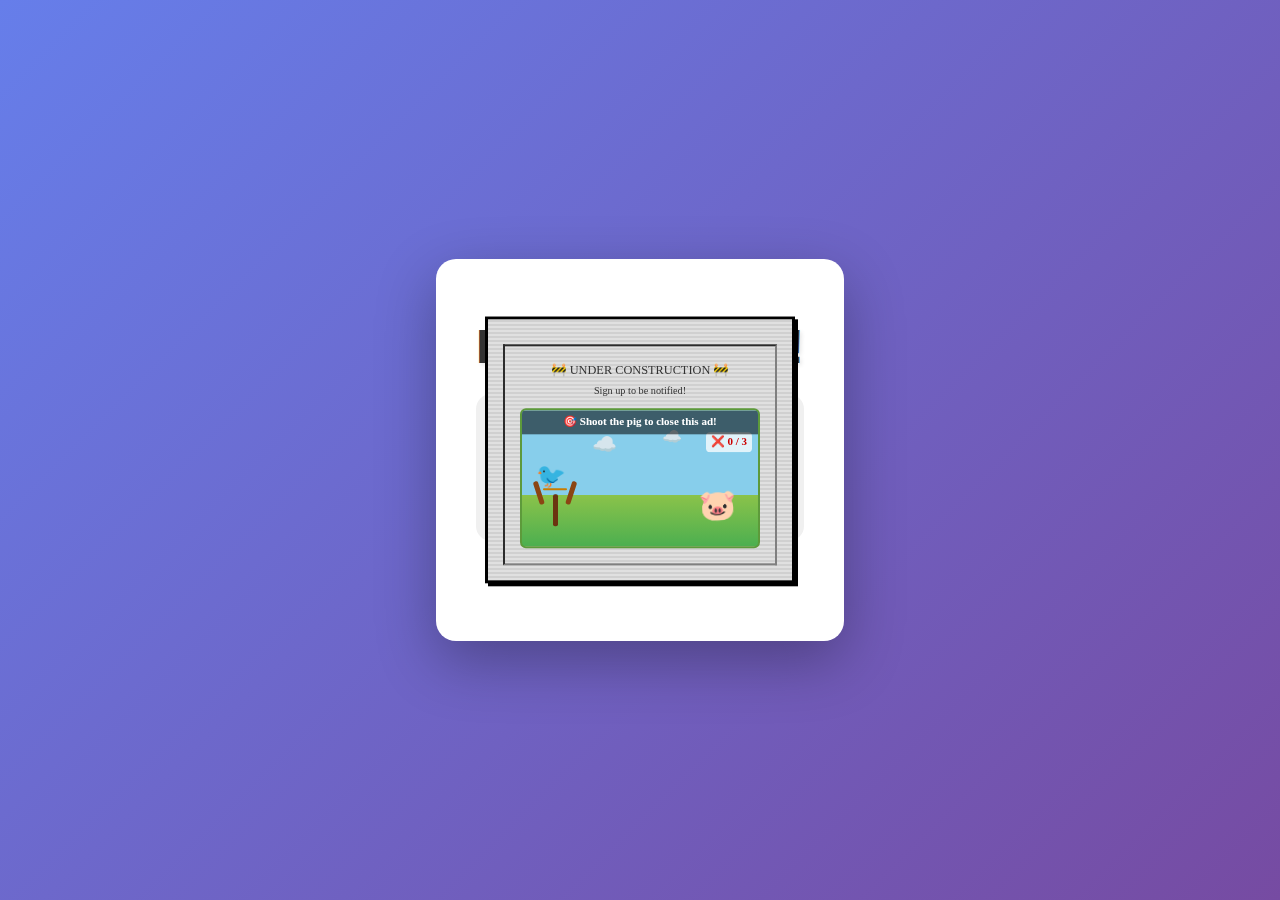
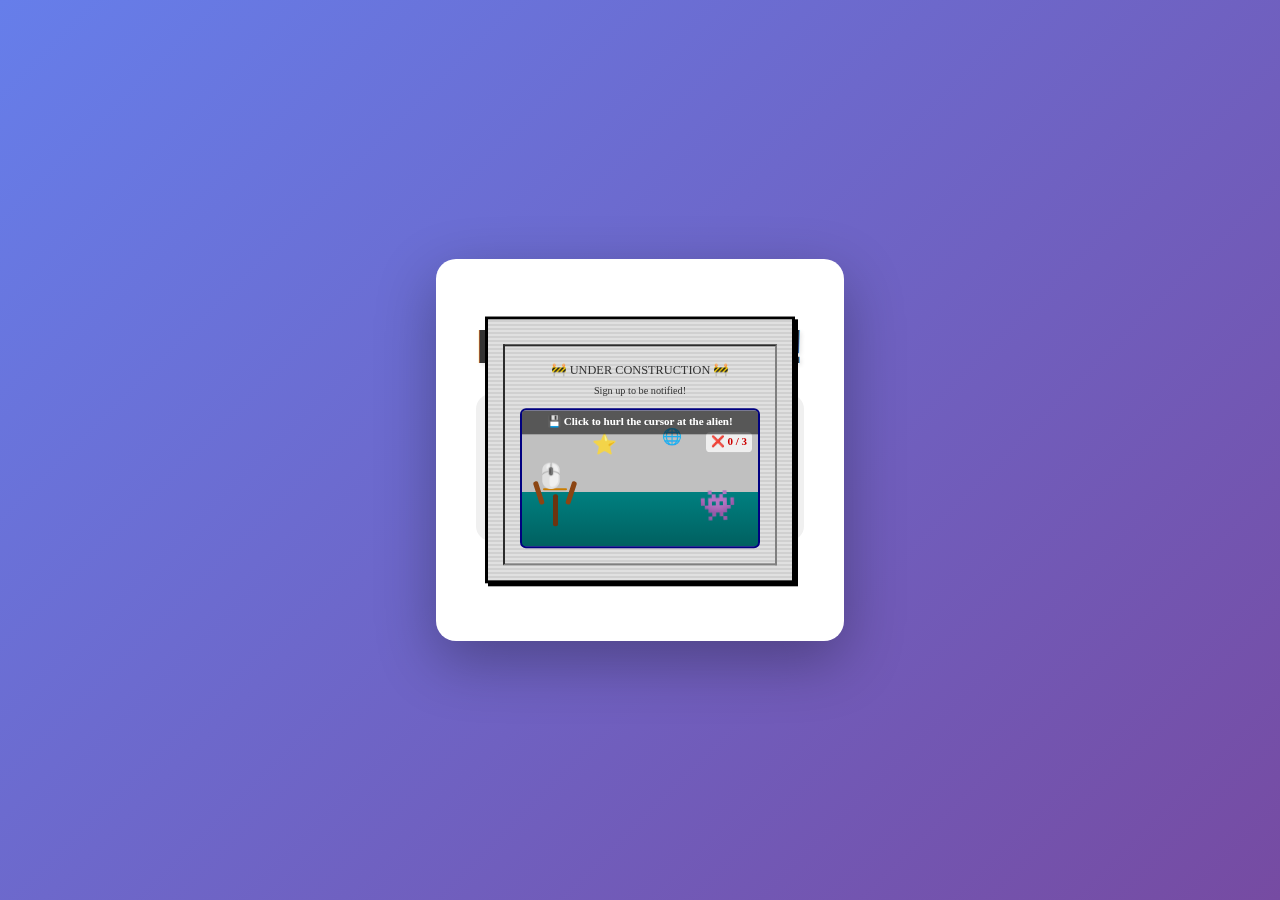
Add era-specific flavor themes to angry bird ad mechanic
Agent-Logs-Url: https://github.com/calegeffre/InfiniteAds/sessions/9aaf6c54-c81d-4cda-a1d8-99a11e98913e

Changed region(s): [[0.4062, 0.4356, 0.5938, 0.6222]]

diff --git a/index.html b/index.html
@@ -897,6 +897,9 @@
             transform: translate(-50%, -50%);
             line-height: 1;
         }
+        .ab-miss-counter.ab-miss-warning {
+            color: #ff0000;
+        }
         @keyframes ab-pig-wobble {
             0%,100% { transform: rotate(-4deg); }
             50%      { transform: rotate(4deg); }
@@ -2893,10 +2896,126 @@
             return '';
         }
 
+        // ── Per-era flavor config for the Angry Bird mechanic ─────────────
+        const AB_ERA_THEMES = {
+            // ── Millennial / classic (default bird & pig) ──────────────────
+            flash: {
+                projectile: '🐦', projectileStyle: null,
+                target: '🐷',
+                instruction: '🎯 Shoot the pig to close this ad!',
+                hitMsg:  '🎉 Direct hit! Ad destroyed!',
+                winMsg:  '🐷 The pig wins! Game over!',
+                bg: 'linear-gradient(to bottom,#87CEEB 0%,#87CEEB 62%,#8BC34A 62%,#4CAF50 100%)',
+                borderColor: '#5d9a3b',
+                decor: ['☁', '☁']
+            },
+            web20: {
+                projectile: '🐦', projectileStyle: null,
+                target: '🐷',
+                instruction: '🎯 Shoot the pig to close this ad!',
+                hitMsg:  '🎉 Direct hit! Ad destroyed!',
+                winMsg:  '🐷 The pig wins! Game over!',
+                bg: 'linear-gradient(to bottom,#87CEEB 0%,#87CEEB 62%,#8BC34A 62%,#4CAF50 100%)',
+                borderColor: '#5d9a3b',
+                decor: ['☁', '☁']
+            },
+            mobile: {
+                projectile: '🐦', projectileStyle: null,
+                target: '🐷',
+                instruction: '🎯 Shoot the pig to close this ad!',
+                hitMsg:  '🎉 Direct hit! Ad destroyed!',
+                winMsg:  '🐷 The pig wins! Game over!',
+                bg: 'linear-gradient(to bottom,#87CEEB 0%,#87CEEB 62%,#8BC34A 62%,#4CAF50 100%)',
+                borderColor: '#5d9a3b',
+                decor: ['☁', '☁']
+            },
+            // ── Early Web (90s) ───────────────────────────────────────────
+            earlyWeb: {
+                projectile: '🖱', projectileStyle: null,
+                target: '👾',
+                instruction: '💾 Click to hurl the cursor at the alien!',
+                hitMsg:  '💾 Webmaster wins! Alien defeated!',
+                winMsg:  '👾 The alien escapes! Game over!',
+                bg: 'linear-gradient(to bottom,#c0c0c0 0%,#c0c0c0 60%,#008080 60%,#006060 100%)',
+                borderColor: '#000080',
+                decor: ['⭐', '🌐']
+            },
+            // ── MySpace / AIM ─────────────────────────────────────────────
+            myspace: {
+                projectile: '💜', projectileStyle: null,
+                target: '🧑',
+                instruction: '~*~ Click 2 poke Tom with a comment! ~*~',
+                hitMsg:  '~*~ Tom has been POKED!! ur a 10/10 ~*~',
+                winMsg:  '😤 Tom blocked u! Game over!',
+                bg: 'linear-gradient(to bottom,#1a0a2e 0%,#1a0a2e 60%,#4a0080 60%,#2d006b 100%)',
+                borderColor: '#ff00ff',
+                decor: ['✨', '🖤']
+            },
+            // ── AOL / Dial-up ─────────────────────────────────────────────
+            aol: {
+                projectile: '💿', projectileStyle: null,
+                target: '☎',
+                instruction: '📞 Hurl the AOL CD at the phone!',
+                hitMsg:  '🔌 Line disconnected! Ad closed!',
+                winMsg:  '☎ Mom picked up the phone! Game over!',
+                bg: 'linear-gradient(to bottom,#a8a8a8 0%,#a8a8a8 60%,#606060 60%,#404040 100%)',
+                borderColor: '#808080',
+                decor: ['📬', '💿']
+            },
+            // ── 90s Windows (BSOD) ───────────────────────────────────────
+            win95: {
+                projectile: '📎', projectileStyle: null,
+                target: '💻',
+                instruction: '📎 Launch Clippy at the Blue Screen!',
+                hitMsg:  '📎 Clippy fixed it! (for once)',
+                winMsg:  '☠ Fatal exception 0E! Game over!',
+                bg: 'linear-gradient(to bottom,#0000aa 0%,#0000aa 100%)',
+                borderColor: '#ffffff',
+                decor: ['⚠', '💾']
+            },
+            // ── Windows XP ────────────────────────────────────────────────
+            winxp: {
+                projectile: '📎', projectileStyle: null,
+                target: '💻',
+                instruction: '📎 Send Clippy at the Blue Screen!',
+                hitMsg:  '🪟 Clippy to the rescue!',
+                winMsg:  '💥 svchost.exe has stopped! Game over!',
+                bg: 'linear-gradient(to bottom,#3a7ec8 0%,#3a7ec8 60%,#1b7a1f 60%,#2e9932 100%)',
+                borderColor: '#0a246a',
+                decor: ['🌅', '☁']
+            },
+            // ── Gen-Z ─────────────────────────────────────────────────────
+            genz: {
+                projectile: 'BRUH',
+                projectileStyle: 'font-weight:900;font-size:13px;color:#ff2d7e;letter-spacing:-1px;',
+                target: '🧑',
+                instruction: '💀 Click to yeet BRUH at that person!',
+                hitMsg:  '💀 Direct ratio! No cap fr fr!',
+                winMsg:  '🤡 Clown behavior detected! Game over!',
+                bg: 'linear-gradient(to bottom,#ff6ab0 0%,#ff6ab0 55%,#a855f7 55%,#7c3aed 100%)',
+                borderColor: '#333333',
+                decor: ['✨', '💅']
+            },
+            // ── AI Era ────────────────────────────────────────────────────
+            ai: {
+                projectile: '💬', projectileStyle: null,
+                target: '🤖',
+                instruction: '🤖 Click to prompt the AI into closing!',
+                hitMsg:  '✅ Prompt accepted! Ad context cleared!',
+                winMsg:  '🤖 AI refuses to comply! Game over!',
+                bg: 'linear-gradient(to bottom,#0a0e27 0%,#0a0e27 65%,#001428 65%,#000a14 100%)',
+                borderColor: '#00d9ff',
+                decor: ['...', '>>>']
+            }
+        };
+        // Default theme (classic bird & pig) used when era has no specific theme
+        const AB_DEFAULT_THEME = AB_ERA_THEMES.flash;
+
         function createAngryBirdPopup(era, adData, isVirus = false) {
             const adText = adData.text;
             const popup = document.createElement('div');
             const eraClass = getEraClass(era);
+            const theme = AB_ERA_THEMES[eraClass] || AB_DEFAULT_THEME;
             popup.className = 'popup-ad era-popup angry-bird-popup' + (eraClass ? ' ' + eraClass : '') + (isVirus ? ' virus-popup' : '');
             const pos = getRandomPosition();
             popup.style.left = pos.x + 'px';
@@ -2939,26 +3058,28 @@
             // ── Game area ──────────────────────────────────────────────────────
             const gameArea = document.createElement('div');
             gameArea.className = 'ab-game-area';
+            gameArea.style.background = theme.bg;
+            gameArea.style.borderColor = theme.borderColor;
 
             // Title bar
             const titleBar = document.createElement('div');
             titleBar.className = 'ab-title-bar';
-            titleBar.textContent = '🎯 Shoot the pig to close this ad!';
+            titleBar.textContent = theme.instruction;
 
             // Miss counter
             const missCounter = document.createElement('div');
             missCounter.className = 'ab-miss-counter';
             missCounter.textContent = '❌ 0 / 3';
 
-            // Decorative clouds
+            // Decorative elements (era-specific)
             const cloud1 = document.createElement('div');
             cloud1.className = 'ab-cloud';
             cloud1.style.cssText = 'top:18px;left:70px;';
-            cloud1.textContent = '☁';
+            cloud1.textContent = theme.decor[0];
             const cloud2 = document.createElement('div');
             cloud2.className = 'ab-cloud';
             cloud2.style.cssText = 'top:14px;left:140px;font-size:16px;';
-            cloud2.textContent = '☁';
+            cloud2.textContent = theme.decor[1];
 
             // Slingshot
             const sling = document.createElement('div');
@@ -2976,15 +3097,16 @@
             sling.appendChild(trunk);
             sling.appendChild(band);
 
-            // Bird sitting in slingshot
+            // Projectile sitting in slingshot
             const birdEl = document.createElement('div');
             birdEl.className = 'ab-bird';
-            birdEl.textContent = '🐦';
+            birdEl.textContent = theme.projectile;
+            if (theme.projectileStyle) birdEl.style.cssText += theme.projectileStyle;
 
-            // Pig target
+            // Target
             const pigEl = document.createElement('div');
             pigEl.className = 'ab-pig ab-pig-wobble';
-            pigEl.textContent = '🐷';
+            pigEl.textContent = theme.target;
 
             gameArea.appendChild(titleBar);
             gameArea.appendChild(missCounter);
@@ -3021,7 +3143,8 @@
 
                 const flyBird = document.createElement('div');
                 flyBird.className = 'ab-flying-bird';
-                flyBird.textContent = '🐦';
+                flyBird.textContent = theme.projectile;
+                if (theme.projectileStyle) flyBird.style.cssText += theme.projectileStyle;
                 flyBird.style.left = startX + 'px';
                 flyBird.style.top  = startY + 'px';
                 gameArea.appendChild(flyBird);
@@ -3057,7 +3180,7 @@
                     flyBird.style.transform = 'translate(-50%,-50%) scale(1.4)';
                     pigEl.className = 'ab-pig';
                     pigEl.textContent = '💀';
-                    titleBar.textContent = '🎉 Direct hit! Ad destroyed!';
+                    titleBar.textContent = theme.hitMsg;
                     titleBar.style.background = 'rgba(0,140,0,0.75)';
                     setTimeout(() => adClosed(popup, HIT_SCORE), HIT_CLOSE_DELAY);
                 } else {
@@ -3065,7 +3188,7 @@
                     flyBird.textContent = '💨';
                     missCounter.textContent = `❌ ${misses} / ${maxMisses}`;
                     // Turn counter red on the last miss warning
-                    if (misses === maxMisses - 1) missCounter.style.color = '#ff0000';
+                    if (misses === maxMisses - 1) missCounter.classList.add('ab-miss-warning');
 
                     // Pig celebrates the miss
                     pigEl.className = 'ab-pig';
@@ -3078,7 +3201,7 @@
                         birdInFlight = false;
 
                         if (misses >= maxMisses) {
-                            titleBar.textContent = '🐷 The pig wins! Game over!';
+                            titleBar.textContent = theme.winMsg;
                             titleBar.style.background = 'rgba(180,0,0,0.75)';
                             setTimeout(() => endGame(), 700);
                         }
